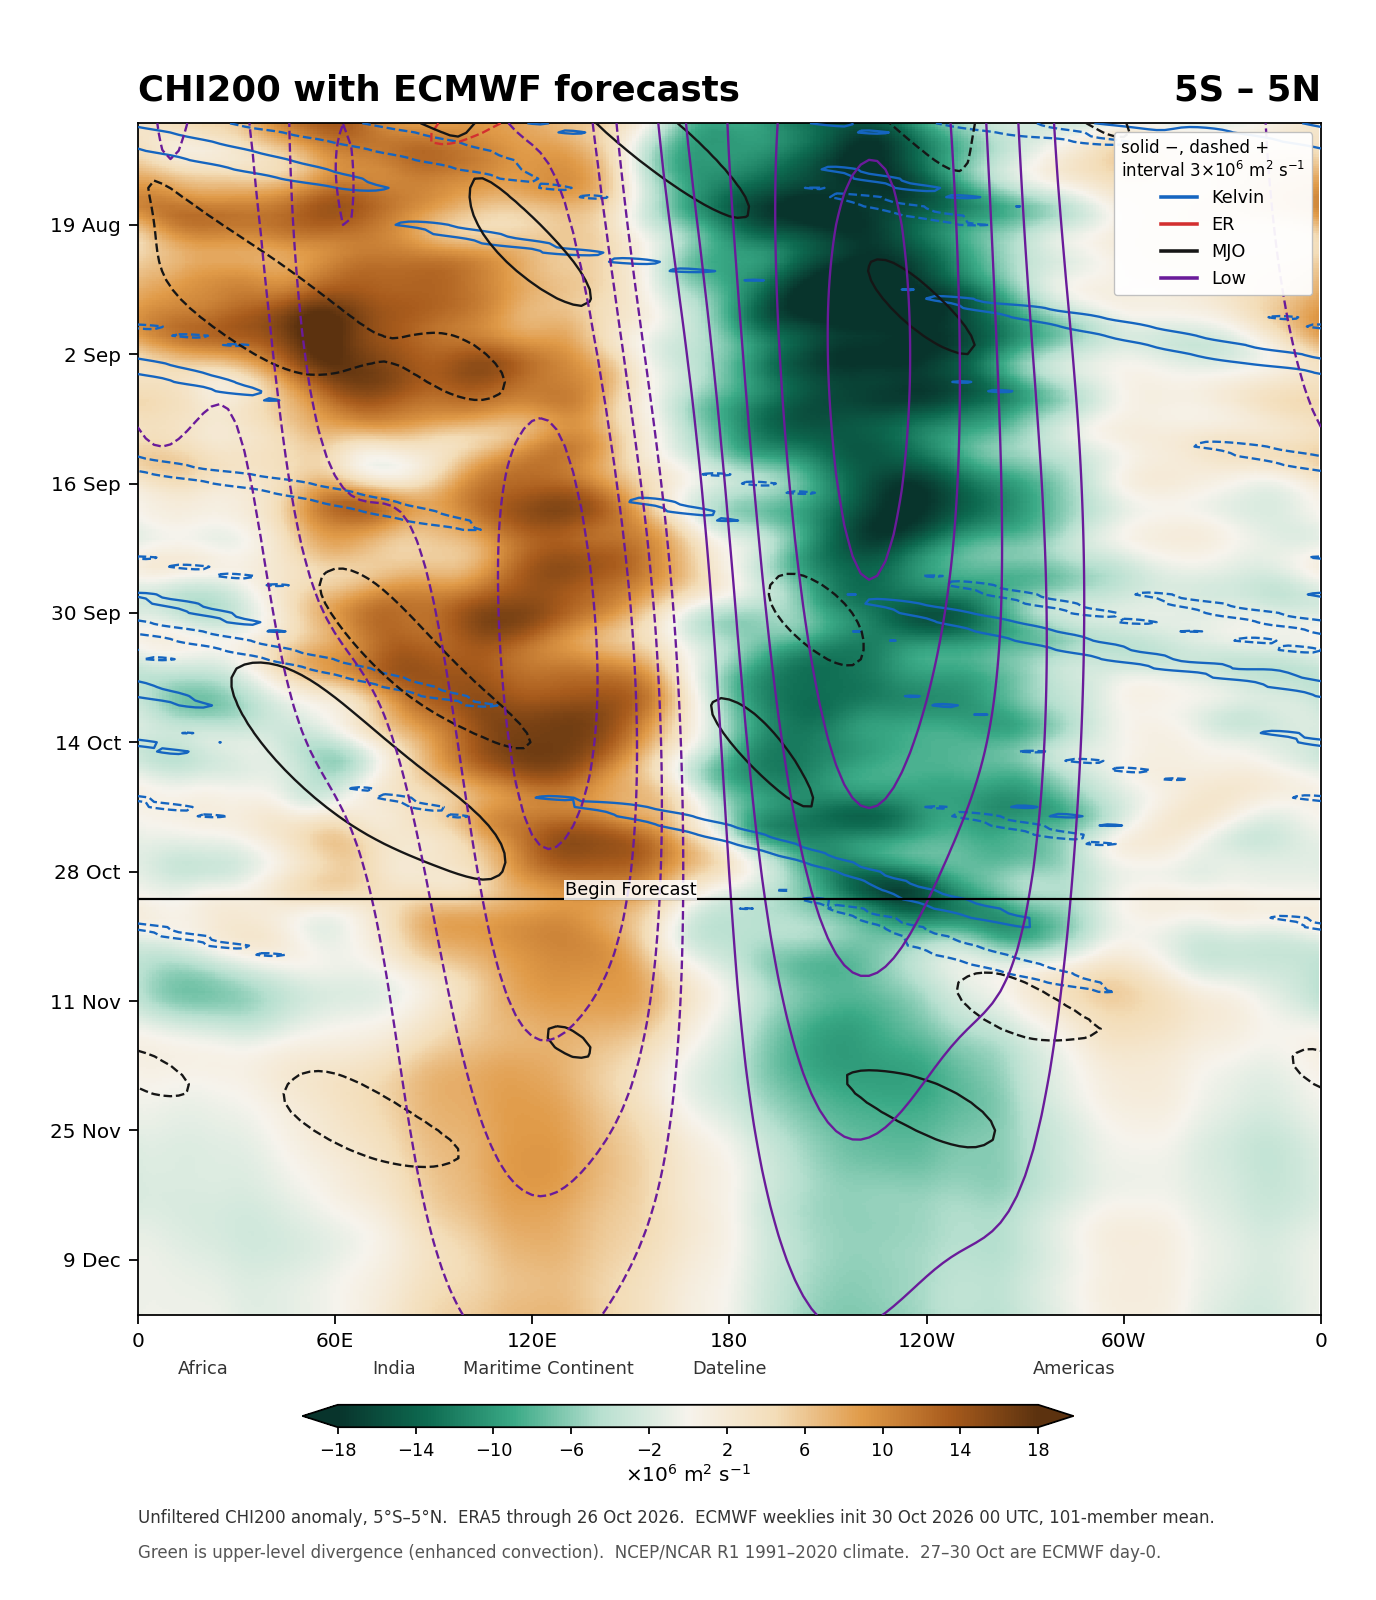
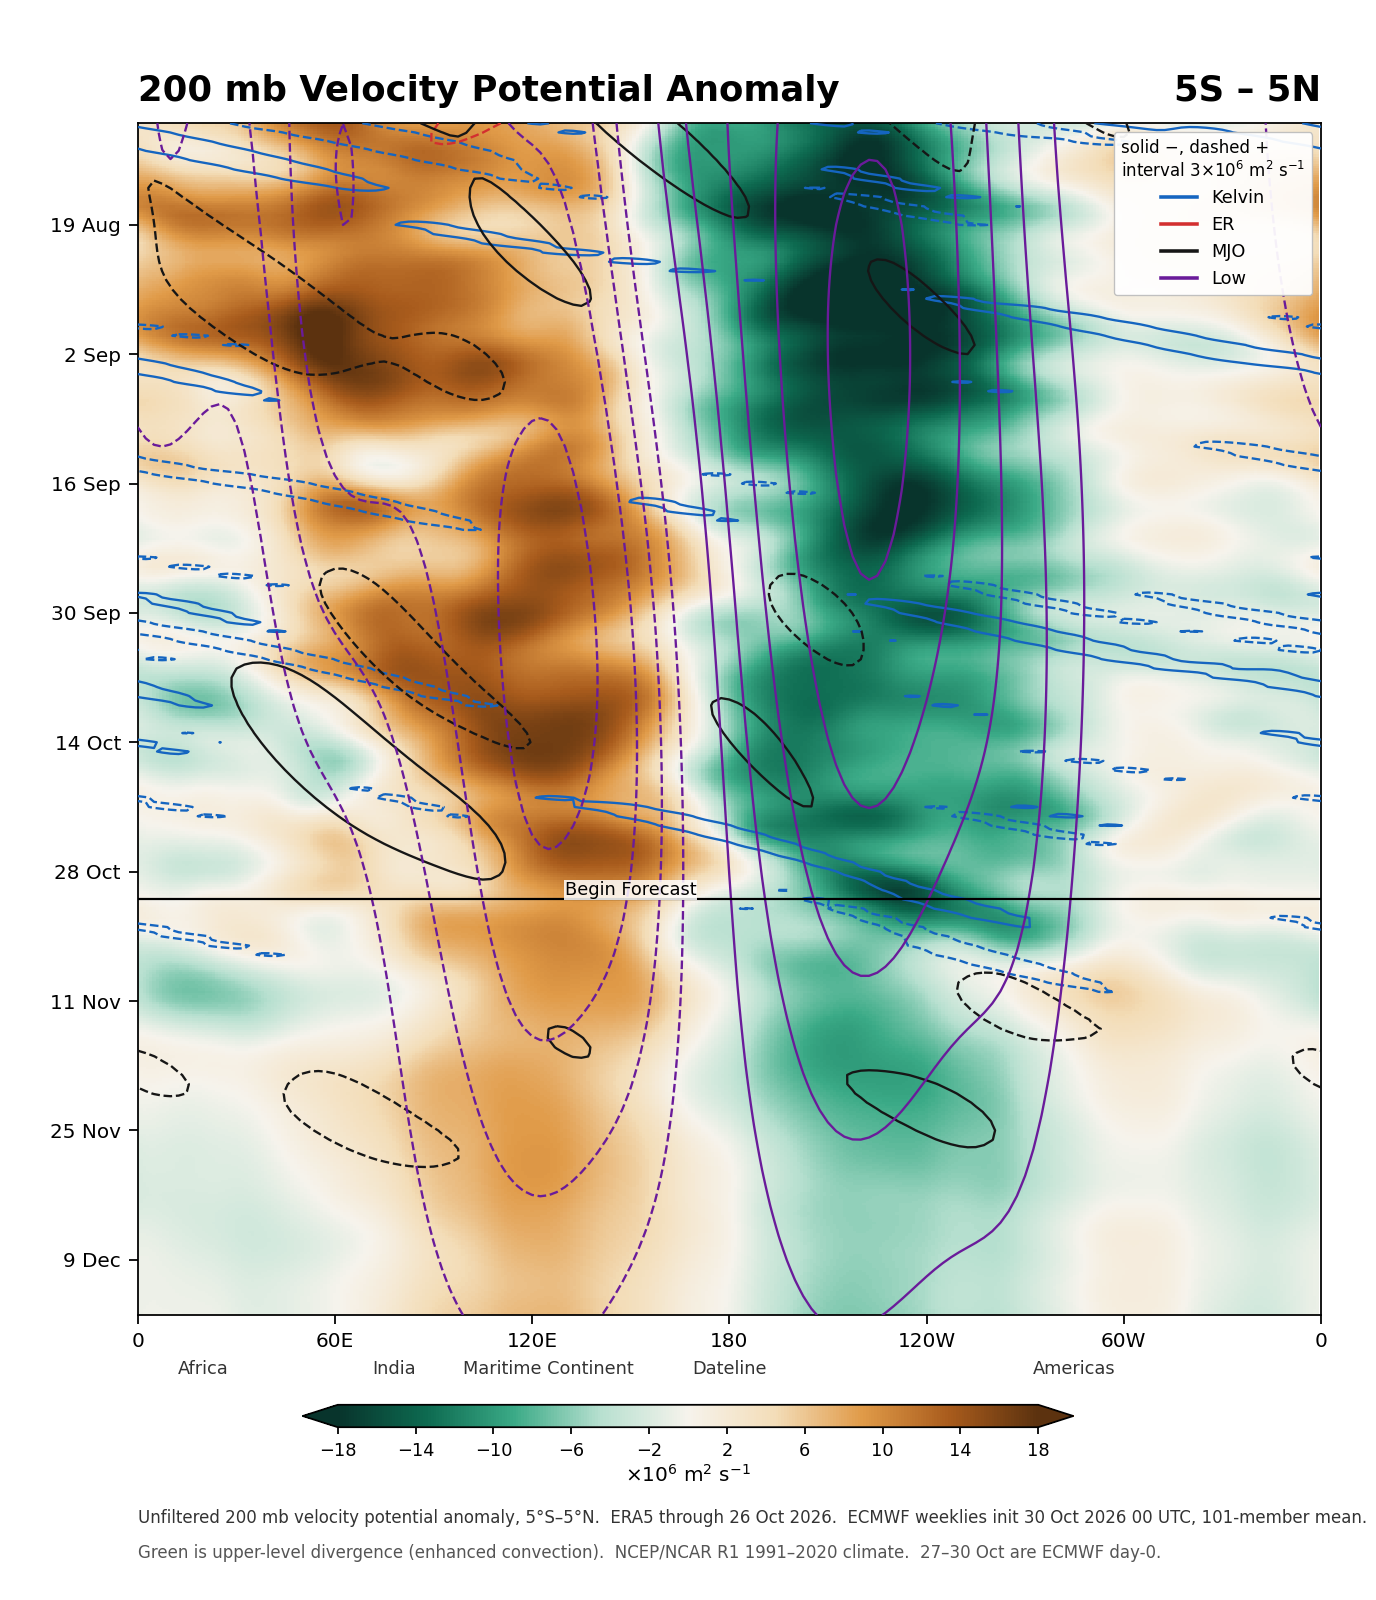
Say 200 mb velocity potential anomaly on the Tropical Forcing page.

Changed region(s): [[0.1562, 0.9375, 0.875, 0.9688], [0.0938, 0.0312, 0.625, 0.0625], [0.9062, 0.9375, 0.9375, 0.9688]]

diff --git a/tropical_forcing/index.html b/tropical_forcing/index.html
@@ -98,20 +98,20 @@
     <p class="eyebrow"><a href="/">Weather Programmer</a> / tropical forcing</p>
     <h1>Tropical Forcing</h1>
     <p class="lede">
-      200 hPa velocity-potential anomaly from 5°S to 5°N. Green is upper-level
+      200 mb velocity potential anomaly from 5°S to 5°N. Green is upper-level
       divergence (rising air). Brown is upper-level convergence (sinking air).
       The forecast is the ECMWF extended-range ensemble mean.
     </p>
     <p class="status" id="status">Loading latest init…</p>
 
     <div class="frame">
-      <img id="chart" alt="CHI200 Hovmöller of 200 hPa velocity-potential anomalies from ERA5 and ECMWF weeklies" src="chi200_ecmwf.png">
+      <img id="chart" alt="200 mb velocity potential anomaly from 5°S to 5°N, ERA5 and ECMWF weeklies" src="chi200_ecmwf.png">
     </div>
     <p class="hint">Time increases downward. Solid contours are negative (rising air); dashed contours are positive (sinking air). Interval 3×10<sup>6</sup> m<sup>2</sup> s<sup>−1</sup>.</p>
 
     <div class="key">
       <h2>How to read this chart</h2>
-      <p>The shading is the unfiltered CHI200 anomaly. Contours are the filtered Kelvin (blue), equatorial Rossby (red), MJO (black), and low-frequency (purple) pieces. The method is Wheeler and Weickmann (2001), with the forecast appended to the observations instead of climatology.</p>
+      <p>The shading is the unfiltered 200 mb velocity potential anomaly. Contours are the filtered Kelvin (blue), equatorial Rossby (red), MJO (black), and low-frequency (purple) pieces. The method is Wheeler and Weickmann (2001), with the forecast appended to the observations instead of climatology.</p>
       <p>ERA5 carries the analysis. The ECMWF weeklies are published about two days after they run, so the forecast can start ahead of the latest ERA5 day. Those intervening days are each run’s own ensemble-mean analysis (lead 0). The climate is NCEP/NCAR Reanalysis 1, 1991–2020.</p>
     </div>
   </div>
@@ -131,7 +131,7 @@
       if (init) {
         status.textContent = `ECMWF weeklies init 00 UTC ${init}`;
       } else {
-        status.textContent = "Latest published CHI200 Hovmöller";
+        status.textContent = "Latest published 200 mb velocity potential anomaly";
       }
     }
 
